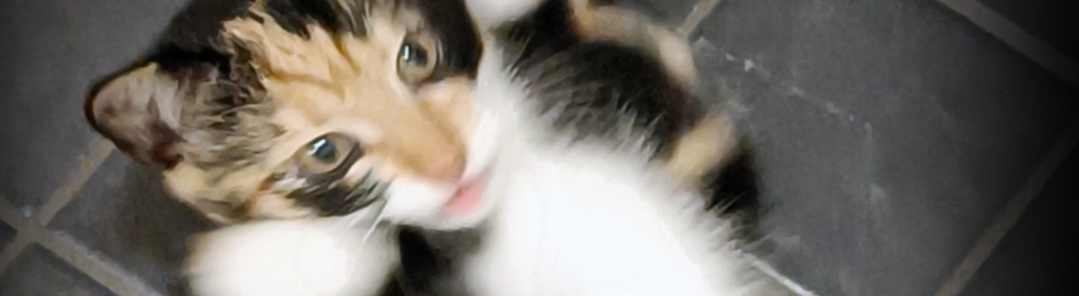
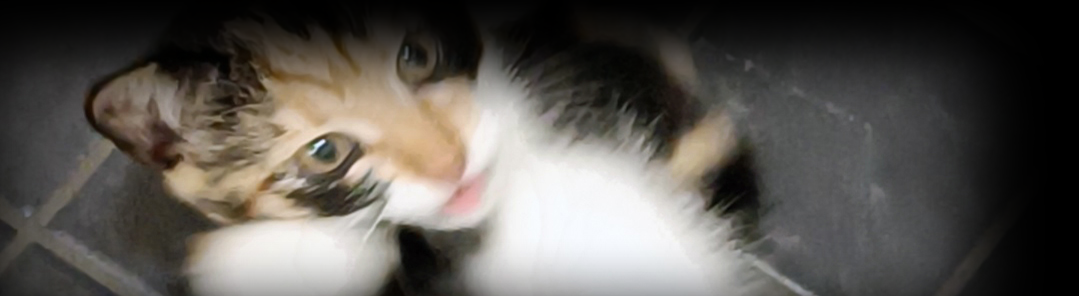
UPDATE X

Changed region(s): [[0.0, 0.0, 0.9787, 0.3649], [0.3976, 0.5777, 0.9787, 1.0], [0.0306, 0.8818, 0.367, 1.0]]

diff --git a/cssinclass.html b/cssinclass.html
@@ -1,59 +1,80 @@
 <!DOCTYPE html>
 <html lang="en">
-<head>
+  <head>
     <meta charset="UTF-8">
     <meta name="viewport" content="width=device-width, initial-scale=1.0">
-    
     <!-- Link this HTML file to an external stylesheet named 'style.css'.
-    This stylesheet contains the styling rules that will be applied to the HTML elements. -->
+         This stylesheet contains the styling rules that will be applied to the HTML elements. -->
     <link rel="stylesheet" href="css/style.css">
     <title>Basic CSS Example</title>
+  </head>
 
-</head>
+  <!-- BODY: -->
+  <body>
 
-<body>
+    <!-- HEADER: -->
     <header>
-        <h2>Welcome to CSS Basics</h2>
+      <div>
+        <img src="/images/image2.png" alt="Såna">
+      </div>
+      <div>
+        <h1>Welcome to CSS Basics</h1>
+      </div> 
     </header>
-    <nav>
-        <!-- Your page can have multiple menus, we are going to use the following items as top menu bar so let's define
-             a class to this ul item and add css later
-             that is class="top-menu" -->
+
+      <!-- NAVIGATOR: -->
+      <nav>
+        <!-- Your page can have multiple menus, we are going to use the following items as 
+          top menu bar so let's define a class to this ul item and add css later that is
+          class="top-menu" -->
         <ul class="top-menu">
-            <li><a href="#section1">Home</a></li>
-            <li><a href="#section2">About</a></li>
-            <li><a href="#section3">Services</a></li>
-            <li><a href="#footer1">Contact</a></li>
+          <li><a href="#section1">Home</a></li>
+          <li><a href="#section2">About</a></li>
+          <li><a href="#section3">Services</a></li>
+          <li><a href="#footer1">Contact</a></li>
         </ul>
-    </nav>
+      </nav>
+
+    <!-- SECTION 1: -->
     <section id="section1">
-        <img src="images/image_background.png" alt="Såna" height="280" width="1480">
         <!-- We want to write some styles for h2, lets update our css file. -->
         <h2>Styling Text</h2>
         <p>Ipsum dolor sit amet consectetur adipisicing elit. Nesciunt ab, tempore incidunt cum nobis, autem repellat repellendus dolorum ullam saepe quas, explicabo ea! Veniam itaque possimus illo repellat ut error.Lorem ipsum dolor sit amet consectetur adipisicing elit. Nam ipsa itaque architecto adipisci culpa nesciunt reprehenderit odio sit natus pariatur voluptate nihil quidem veritatis aliquid, quam ut recusandae, quo consequatur.Lorem, ipsum dolor sit amet consectetur adipisicing elit. Aperiam eaque nihil voluptate deserunt architecto sequi voluptates sunt quod odit, atque, tempora eligendi distinctio fugit quaerat ratione. Quae deleniti quisquam mollitia. Lorem ipsum dolor sit amet consectetur adipisicing elit. Aliquid officiis incidunt commodi eum ipsa autem. Ipsum quibusdam sed minima dolore libero sequi corporis ab nobis corrupti, nesciunt soluta nemo veritatis. <strong>This text is bold.</strong> <em>This text is italic.</em></p>
     </section>
 
+    <!-- SECTION 2: -->
     <section id="section2">
+      <!-- CUSTOM CLASSES: DIVIDES SECTIONS WITH A DIM WHITE BOX (PNG): -->
+      <div class="page-separator"></div>
         <h2>Styling Background</h2>
-        <!-- We want to create a colored box with some styles
-             let's use class that is class="colored-box" and update
-             the css file for this class. -->
+        <!-- We want to create a colored box with some styles let's use class that is
+             class="colored-box" and update the css file for this class. -->
         <div >
-            <p>This is a colored box with a background.</p>
+          <p class="colored-box">This is a colored box with a (page color) background.</p>
         </div>
+      <!-- CUSTOM CLASSES: DIVIDES SECTIONS WITH A DIM WHITE BOX (PNG): -->
+      <div class="page-separator"></div>
     </section>
 
+    <!-- SECTION 3: -->
     <section id="section3">
         <h2>Changing Font</h2>
         <!-- We want to use custom font with some styles
-             let's use class that is class="custom-font"" and update
-             the css file. -->
-        <p>This text uses a custom font.</p>
+             let's use class that is class="custom-font"" and update the css file. -->
+        <p class="custom-font">This text uses a custom font.</p>
+      <div class="page-separator"></div>
     </section>
 
+    <!-- FOOTER 1: -->
     <footer id="footer1">
+      <div>
+        <img src="/images/image2.png" alt="Såna">
+      </div>
+      <div>
         <p>© 2024 CSS Basics</p>
+      </div>
     </footer>
+    
+  </body>
 
-</body>
 </html>

diff --git a/css/style.css b/css/style.css
@@ -1,39 +1,61 @@
 body{
-    margin: auto;
     background-color: #191919;
-    background-image:---;
-    color: #ffefdf;
+    background-image: url(/images/image_background.png);
+    background-blend-mode: multiply;
+    background-position: center;
+    background-repeat: no-repeat;
+    background-size: cover;
     font-family: 'Courier New', Courier, monospace;
+    color: #ffefdf;
+    margin: auto;
 }
 
 h1{
     font-family: 'Lucida Sans', 'Lucida Sans Regular', 'Lucida Grande', 'Lucida Sans Unicode', Geneva, Verdana, sans-serif;
+    color: #ffefdf;
+    margin: 20px;
+}
+
+h2{
+    font-family: 'Lucida Sans', 'Lucida Sans Regular', 'Lucida Grande', 'Lucida Sans Unicode', Geneva, Verdana, sans-serif;
     color: #ff8040;
-    margin: 0px;
+    padding-top: 7.9vh;
 }
 
 header{
-    background-color: #ffefdf;
     background-image: url(/images/image_background.png);
-    background-position: top;
+    background-blend-mode: multiply;
     background-repeat: no-repeat;
     background-size: cover;
-    color: #ffefdf;
-    font-size: 24px;
     text-decoration: dotted;
-    padding: 1em;
+    color: #ffefdf;
+    font-size: 20px;
+    padding: 20px;
+}
+
+header div{
+  display: inline-block;
+  vertical-align: middle;
+}
+
+header img {
+  max-width: 64px;
+  border: 1px solid #ffefdf;
 }
 
 nav{
-    background-color: #ff8040;
-    background-image: ---;
-    padding: 0.2em;
+    background-image: url(/images/nav.png);
+    background-blend-mode: darken;
+    background-size: cover;
+    padding: auto;
 }
 
 nav ul{
     list-style-type: none;
-    padding: 0;
-    margin: 0;
+    font-size: 20px;
+    font-weight: bolder;
+    padding: 2px;
+    margin: 0px;
 }
 
 section{
@@ -41,15 +63,51 @@ section{
 }
 
 footer{
-    background-color: #ff8040;
-    padding: 0,7em;
+    background-image: url(/images/nav.png);
+    background-color: black;
+    background-blend-mode: darken;
+    background-size: cover;
+    text-align: center;
+    padding: 20px;
+}
+
+footer div{
+    display: inline-block;
+    vertical-align: middle;
 }
 
 footer p{
-    background-color: #ff8040;
-    color: #191919;
+    font-family: 'Lucida Sans', 'Lucida Sans Regular', 'Lucida Grande', 'Lucida Sans Unicode', Geneva, Verdana, sans-serif;
+    font-size: 18px;
     font-weight: bolder;
-    margin-left: 20px;
+    color: #ffffff;
+    margin: 0;
+}
+
+footer img {
+    max-width: 32px;
+    border: 1px solid #ffefdf;
+}
+
+/*CUSTOM CLASSES:*/
+
+/*- DIVIDES SECTIONS WITH A WHITE BOX:*/
+.page-separator{
+    background-image: url(/images/image_background2.png);
+    width: 100%;
+    height: 20px;
+}
+
+/*- ADDS BACKGROUND COLOR TO TEXT:*/
+.colored-box{
+    background-color: #191919;
+    padding: 20px;
+}
+
+/*- ADDS FONT TO TEXT:*/
+.custom-font{
+    font-family: system-ui, -apple-system, BlinkMacSystemFont, 'Segoe UI', Roboto, Oxygen, Ubuntu, Cantarell, 'Open Sans', 'Helvetica Neue', sans-serif;
+    font-size: 20px;
 }
 
 .top-menu li{
@@ -63,13 +121,17 @@ footer p{
 
 .top-menu a{
     text-decoration: none;
-    color: #191919;
     font-weight: bolder;
+    color: #191919;
 }
 
-.top-menu a:visited{
-    color: #804480;
+/*- CHANGES COLOR WHEN HOVERING OVER LINK:*/
+.top-menu a:hover {
+    color: rgb(255, 64, 64, 0.5);
 }
-.top-menu a:hover{
-    color: #ffefdf;
+
+/*- CHANGES COLOR WHEN LINK IS VISITED:*/
+.top-menu a:visited {
+    color: rgb(255, 64, 64, 0.5);
 }
+

diff --git a/notes.html b/notes.html
@@ -3,24 +3,26 @@
 <head>
     <meta charset="UTF-8">
     <meta name="viewport" content="width=device-width, initial-scale=1.0">
-    <title>Notes</title>
+    <!-- TITLE: -->
+    <link rel="stylesheet" href="css/style.css">
+    <title>My Individual Exercises - Eetu Vihriälä</title>
+    
 </head>
-<style>
-    body {
-        font-family: 'Lucida Sans', 'Lucida Sans Regular', 'Lucida Grande', 'Lucida Sans Unicode', Verdana, sans-serif;
-        font-size: large;
-        color: #ffefdf;
-        background-color: #191919;
-    }
+    <style>
+        body {
+            font-family: 'Lucida Sans', 'Lucida Sans Regular', 'Lucida Grande', 'Lucida Sans Unicode', Verdana, sans-serif;
+            font-size: large;
+            color: #ffefdf;
+            background-color: #191919;
+        }
+    </style>
 
-</style>
-
-<header>
-    <!-- Sivun pääotsikko: -->
-    <h1>
-        MUISTIINPANOT | HTML
-    </h1>
-</header>
+    <header>
+        <!-- Sivun pääotsikko: -->
+        <h1>
+            MUISTIINPANOT | HTML
+        </h1>
+    </header>
 
     <h3>Markdown:</h3>
     <ul>

diff --git a/index.html b/index.html
@@ -4,9 +4,8 @@
     <meta charset="UTF-8">
     <meta name="viewport" content="width=device-width, initial-scale=1.0">
     <!-- TITLE: -->
-    <title>My Individual Exercises - Eetu Vihriälä</title>
     <link rel="stylesheet" href="css/style.css">
-    
+    <title>My Individual Exercises - Eetu Vihriälä</title>
 </head>
 
 <body>
@@ -18,16 +17,12 @@
                 Exercise 2 </a></li>
             <li><a href="../IndividualTasks/exercises/exercise3.html" target="_blank">
                 Exercise 3 </a></li>
+            <li><a href="../IndividualTasks/exercises/exercise1.html" target="_blank">
+                Exercise 4 </a></li>
+            <li><a href="../IndividualTasks/exercises/exercise1.html" target="_blank">
+                Exercise 5 </a></li>
         </ul>
     </nav>
-
-<!--
-<li><a href="../IndividualTasks/exercises/exercise1.html" target="_blank">
-    Exercise 4 </a></li>
-<li><a href="../IndividualTasks/exercises/exercise1.html" target="_blank">
-    Exercise 5 </a></li>
- -->
-
 </body>
 
 </html>

diff --git a/exercises/exercise2.html b/exercises/exercise2.html
@@ -1,7 +1,7 @@
-<!-- Dokumentin tyyppimäärittely: -->
+<!-- HTML: -->
 <!DOCTYPE html>
 <html lang="en">
-<!-- Head-osio sisältäen metatietoja ja tyylisäännöt: -->
+<!-- Head: -->
 <head>
     <!-- Merkistökoodaus ja näkymän skaalausasetukset: -->
     <meta charset="UTF-8">
@@ -10,10 +10,10 @@
     <meta name="description" content="The site contains information about SoundCloud artist called CVAH.">
 
     <!-- Verkkosivun otsikko | HTML-perusteet - Tehtävä 2 -->
-    <title>HTML Basics - Exercise 2</title>
     <link rel="stylesheet" href="css/style.css">
+    <title>HTML Basics - Exercise 2</title>
 
-    <!-- Tyylisäännöt sivustolle: -->
+    <!-- STYLE: -->
     <style>
         body {
             font-family: 'Lucida Sans', 'Lucida Sans Regular', 'Lucida Grande', 'Lucida Sans Unicode', Verdana, sans-serif;

diff --git a/exercises/exercise1.html b/exercises/exercise1.html
@@ -6,10 +6,10 @@
     <!-- Merkistökoodaus ja näkymän skaalausasetukset: -->
     <meta charset="UTF-8">
     <meta name="viewport" content="width=device-width, initial-scale=1.0">
-
     <!-- Verkkosivun otsikko | HTML-perusteet - Tehtävä 1 -->
-    <title>HTML Basics - Exercise 1</title>
     <link rel="stylesheet" href="css/style.css">
+    <title>HTML Basics - Exercise 1</title>
+
     
 </head>
 

diff --git a/exercises/exercise3.html b/exercises/exercise3.html
@@ -10,8 +10,8 @@
     <meta name="description" content="The site contains information about SoundCloud artist called CVAH.">
 
     <!-- Verkkosivun otsikko | HTML-perusteet - Tehtävä 3 -->
-    <title>HTML Basics - Exercise 3</title>
     <link rel="stylesheet" href="css/style.css">
+    <title>HTML Basics - Exercise 3</title>
 
     <!-- CSS: -->
     <style>
